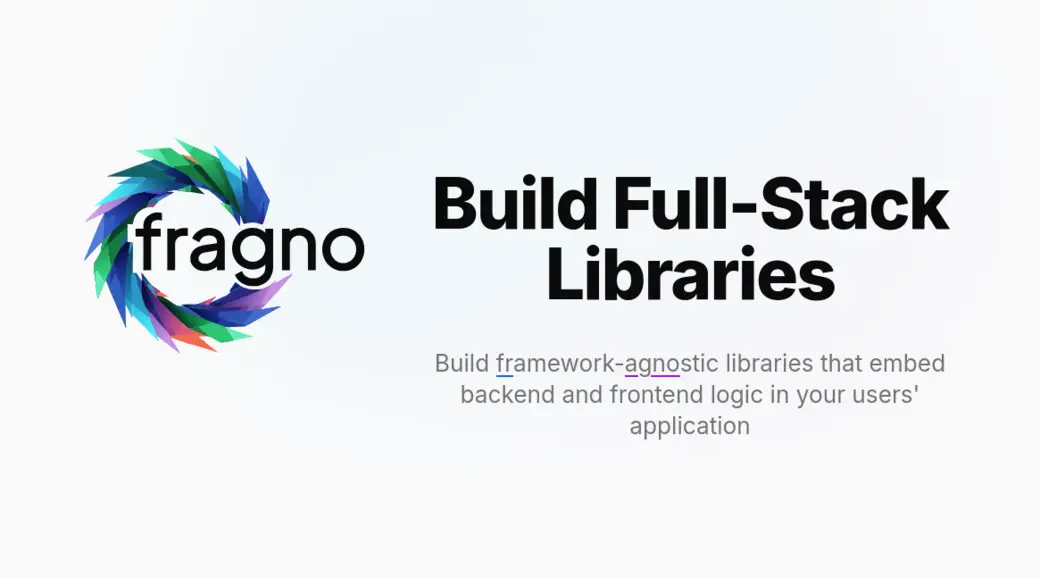
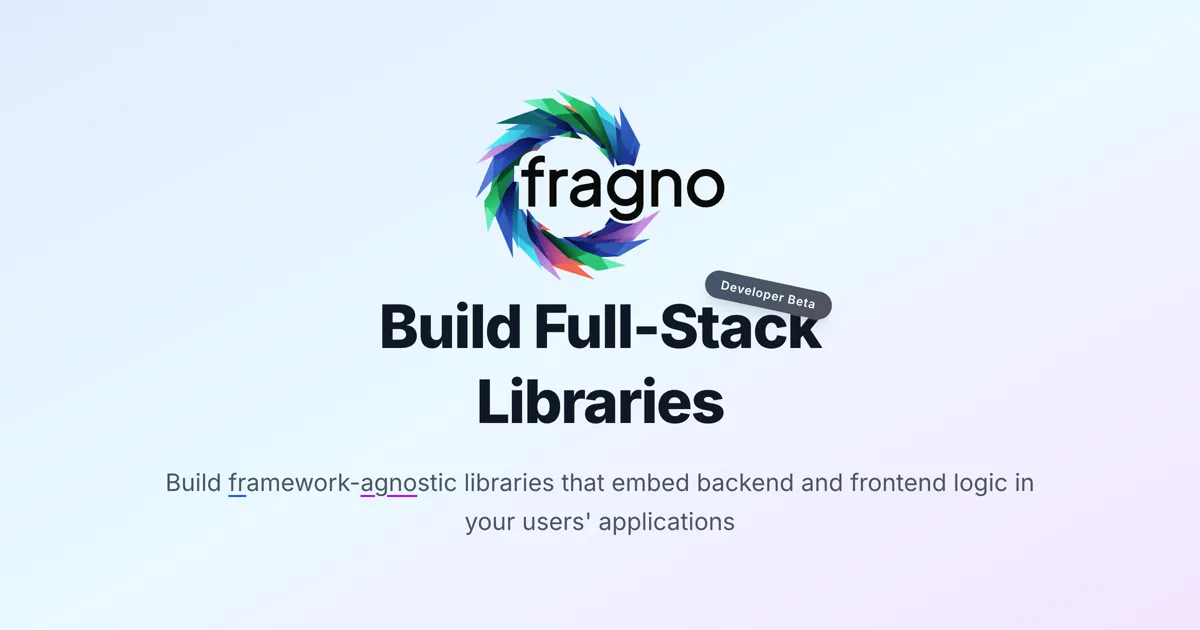
Docs: update social/og image

Changed region(s): [[0.0615, 0.1246, 0.9231, 0.6228], [0.1231, 0.5917, 0.9231, 0.8097], [0.3692, 0.8097, 0.6154, 0.8408]]

diff --git a/packages/docs/app/og-image/page.tsx b/packages/docs/app/og-image/page.tsx
@@ -1,0 +1,52 @@
+import { FragnoLogo } from "@/components/logos/fragno-logo";
+import { notFound } from "next/navigation";
+
+export default function OgImagePage() {
+  // Only allow access in development mode
+  if (process.env.NODE_ENV !== "development") {
+    notFound();
+  }
+
+  return (
+    <div className="relative flex h-[630px] w-[1200px] flex-col items-center justify-center overflow-hidden bg-white dark:bg-slate-900">
+      {/* Background gradient */}
+      <div className="absolute inset-0 bg-gradient-to-br from-blue-500/15 via-sky-400/10 to-purple-500/15 dark:from-blue-500/25 dark:via-sky-400/15 dark:to-purple-500/25" />
+
+      {/* Main content */}
+      <div className="relative z-10 flex flex-col items-center justify-center space-y-6 px-20 text-center">
+        {/* Logo */}
+        <div className="mb-2 flex justify-center">
+          <FragnoLogo className="h-48 w-64 dark:text-white" />
+        </div>
+
+        {/* Title */}
+        <h1 className="text-6xl font-extrabold leading-tight tracking-tight text-gray-900 dark:text-white">
+          Build Full-
+          <span className="relative inline-block">
+            Stack
+            <span className="absolute -right-3 -top-2 inline-flex rotate-12 items-center">
+              <span className="relative inline-flex items-center gap-1 rounded-full bg-gradient-to-r from-slate-600 via-gray-600 to-zinc-600 px-4 py-1.5 text-white shadow-lg ring-1 ring-white/20">
+                <span className="text-xs font-semibold tracking-wider">Developer Beta</span>
+              </span>
+            </span>
+          </span>
+          <br />
+          Libraries
+        </h1>
+
+        {/* Subtitle */}
+        <p className="max-w-4xl text-2xl leading-relaxed text-gray-600 dark:text-gray-300">
+          Build{" "}
+          <span className="underline decoration-blue-600 underline-offset-4 dark:decoration-blue-400">
+            fr
+          </span>
+          amework-
+          <span className="underline decoration-purple-600 underline-offset-4 dark:decoration-purple-400">
+            agno
+          </span>
+          stic libraries that embed backend and frontend logic in your users' applications
+        </p>
+      </div>
+    </div>
+  );
+}
